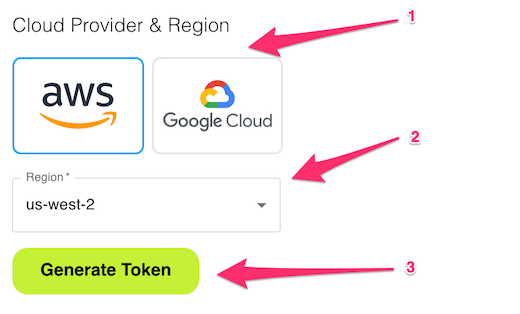
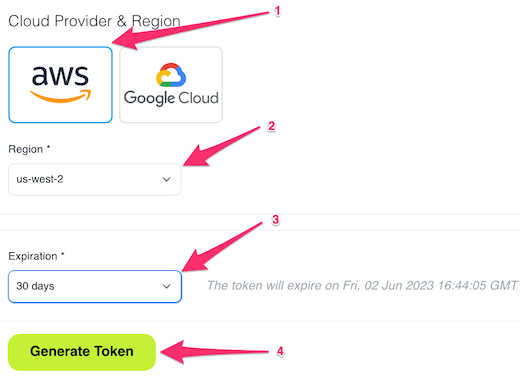
swapped images for token expiration launch (#189)

diff --git a/docs/getting-started.md b/docs/getting-started.md
@@ -29,13 +29,13 @@ In the console, open the menu and select Token.
 
 ![image of console menu](/img/getting-started/auth-token.gif)
 
-On the token page, select your 1/ cloud provider, 2/ an available Region from the drop down list, and 3/ hit the "Generate Token" button.
+On the token page, select your 1/ cloud provider, 2/ an available Region from the drop down list, 3/ when the token should expire, and then 4/ hit the "Generate Token" button.
 
 ![image](/img/getting-started/select-provider-region.png)
 
 Scroll down and you will see your token in a grey box. The token in the screenshot has been blurred out, but yours won't be. Click on the copy icon to copy the token to your clipboard.
 
-![image](/img/getting-started/generated-token.png)
+![image](/img/getting-started/generated-token.jpg)
 
 ## Step 3: Store auth token
 
